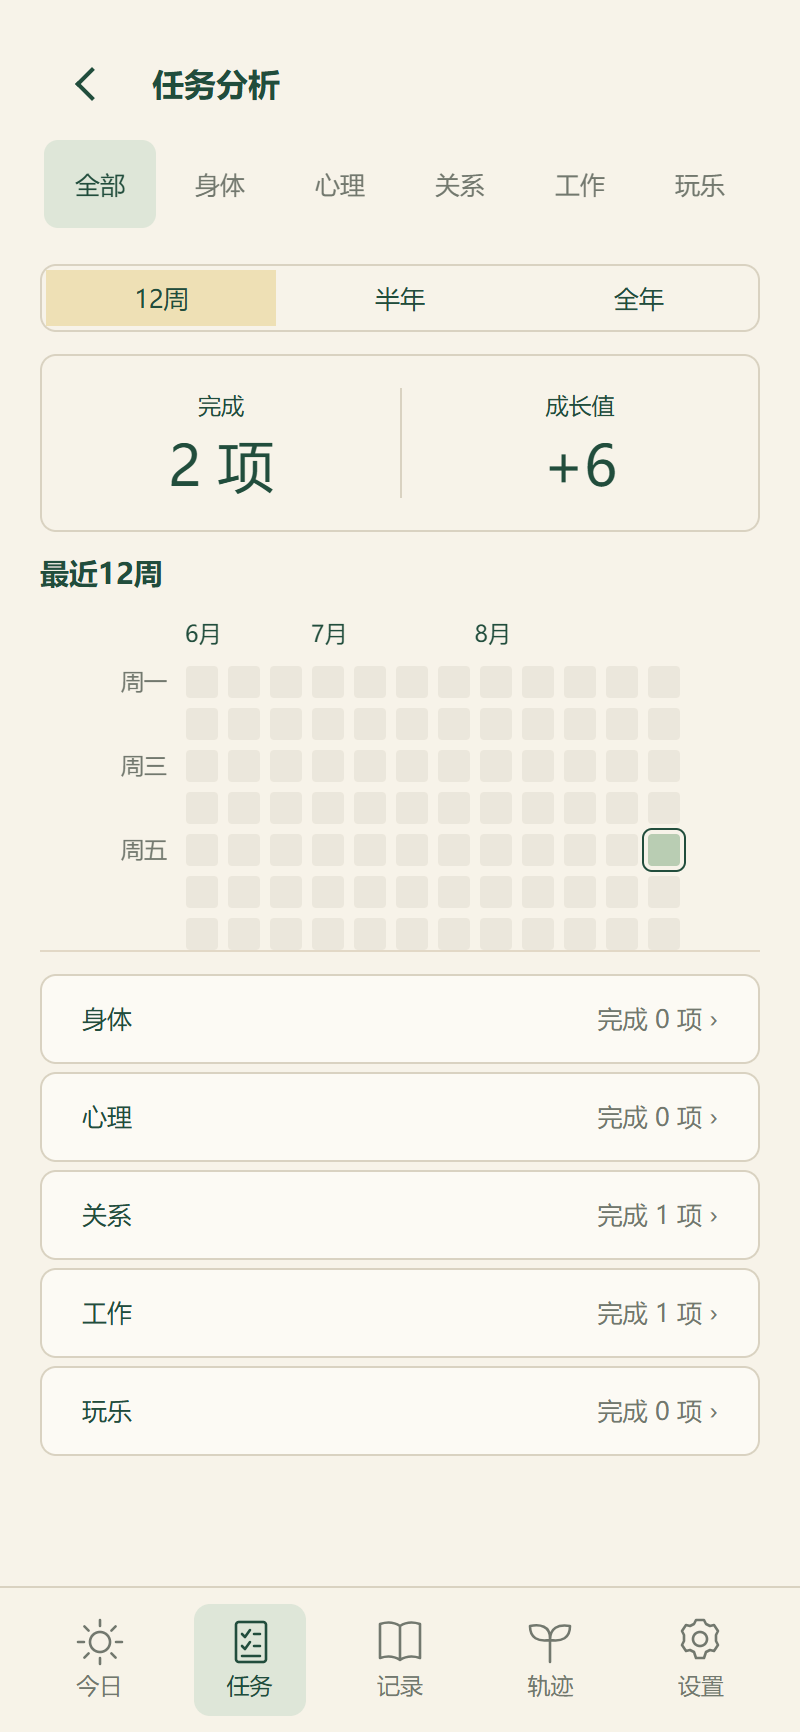
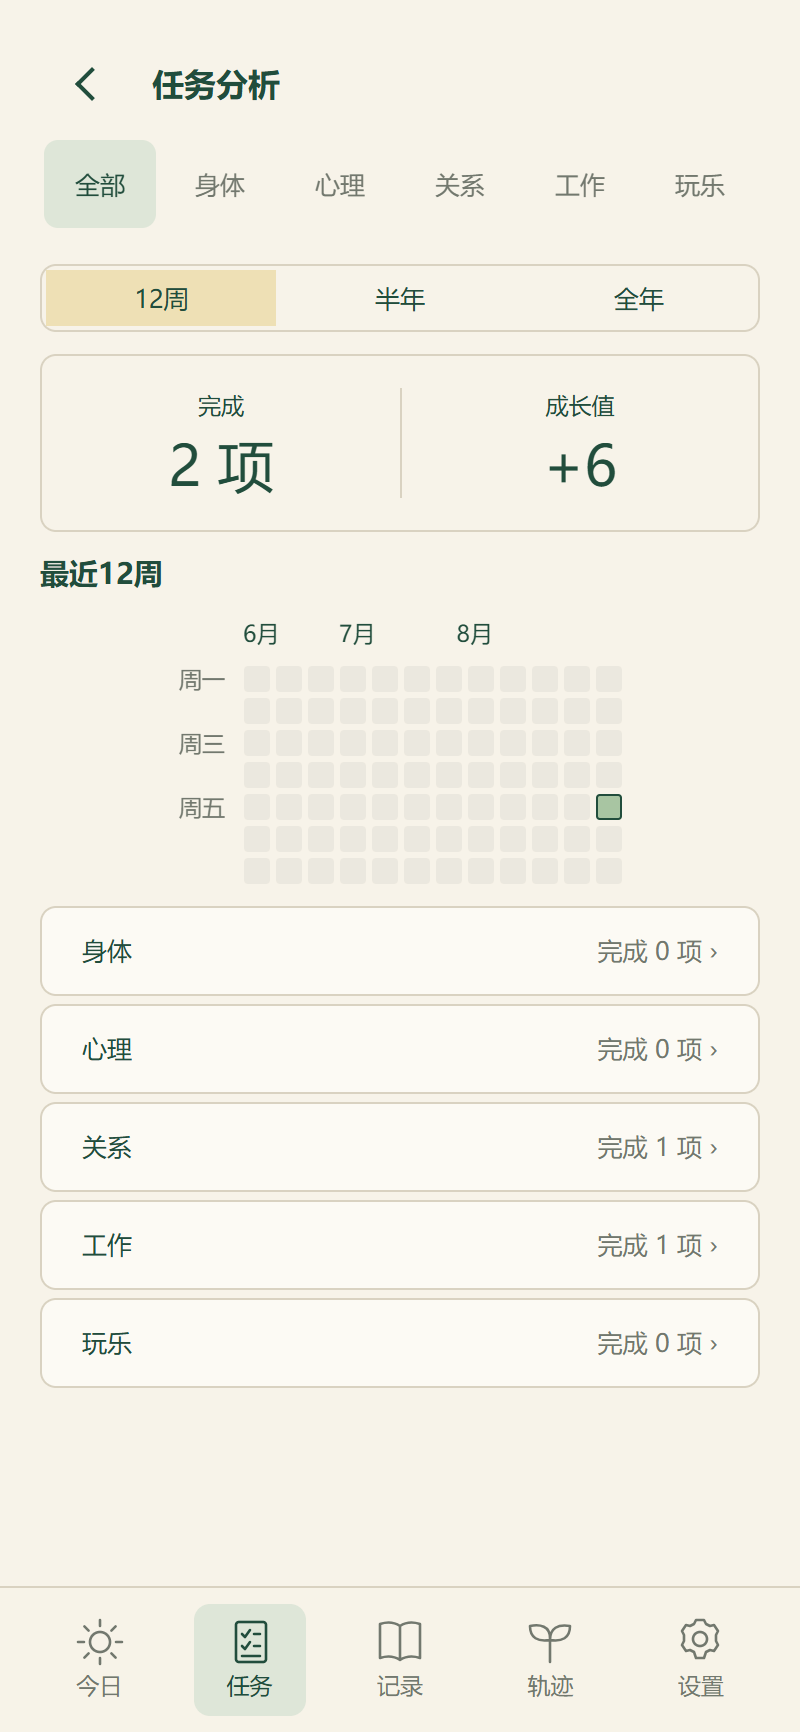
refactor(ui): compact analysis heatmaps

diff --git a/src/design-system.css b/src/design-system.css
@@ -18,12 +18,12 @@
   --ui-color-accent-soft: #dee6d8;
   --ui-color-danger: #a83b32;
   --ui-color-focus: #214d3c;
-  --ui-color-heat-empty: #ebe7dc;
+  --ui-color-heat-empty: #ebe8df;
   --ui-color-heat-missed: #c8c2b3;
-  --ui-color-heat-1: #dce5d8;
-  --ui-color-heat-2: #b9cdb3;
-  --ui-color-heat-3: #89aa83;
-  --ui-color-heat-4: #557d61;
+  --ui-color-heat-1: #cadbc6;
+  --ui-color-heat-2: #a8c5a2;
+  --ui-color-heat-3: #79a574;
+  --ui-color-heat-4: #4b7656;
   --ui-color-heat-5: #214d3c;
 
   /* Type */
@@ -74,8 +74,8 @@
   --ui-action-gap: var(--ui-space-3);
   --ui-repeat-gap: 16px;
   --ui-review-input-height: 116px;
-  --ui-heat-cell: 16px;
-  --ui-heat-gap: 5px;
+  --ui-heat-cell: 13px;
+  --ui-heat-gap: 3px;
   --ui-monthly-trend-height: 14px;
   --ui-analysis-width: 100%;
   --ui-viewport-height: 100vh;
@@ -949,7 +949,7 @@ button.ui-list-row:is(:hover,:focus-visible) { background: var(--ui-color-accent
 
 .analysis-page-body { gap: var(--ui-space-5); min-width: 0; }
 .analysis-category-section { display: grid; gap: var(--ui-list-gap); padding: 0; border: 0; background: transparent; }
-.analysis-heat-section { margin: 0; padding: 0; display: grid; gap: var(--ui-section-gap); }
+.analysis-heat-section { margin: 0; padding: 0; display: grid; gap: var(--ui-section-gap); border-bottom: none; }
 .analysis-heat-scroll { container-type: inline-size; min-width: 0; }
 .analysis-heat-chart {
   --heat-label-width: var(--ui-space-7);
@@ -987,25 +987,9 @@ button.ui-list-row:is(:hover,:focus-visible) { background: var(--ui-color-accent
 }
 .analysis-heat-cell.is-today {
   outline: var(--ui-border-width) solid var(--ui-color-text);
-  outline-offset: var(--ui-space-1);
+  outline-offset: calc(-1 * var(--ui-border-width));
 }
 .analysis-heat-cell::after { content: none; }
-.page-habit-analysis:not(.page-habit-analysis-overview) .analysis-heat-cell:is(.is-level-1, .is-level-2, .is-level-3, .is-level-4, .is-level-5)::after,
-.page-habit-analysis:not(.page-habit-analysis-overview) .analysis-heat-cell.is-missed::after {
-  position: absolute;
-  inset: 0;
-  display: grid;
-  place-items: center;
-  font-size: var(--ui-font-meta);
-}
-.page-habit-analysis:not(.page-habit-analysis-overview) .analysis-heat-cell:is(.is-level-1, .is-level-2, .is-level-3, .is-level-4, .is-level-5)::after {
-  color: var(--ui-color-surface);
-  content: '✓';
-}
-.page-habit-analysis:not(.page-habit-analysis-overview) .analysis-heat-cell.is-missed::after {
-  color: var(--ui-color-muted);
-  content: '–';
-}
 
 /* Companion settings mirror the reference: preview, choices, nickname, save. */
 .settings-detail-dialog .profile-settings.settings-detail-content {

diff --git a/docs/UI_COMPONENTS.md b/docs/UI_COMPONENTS.md
@@ -69,7 +69,7 @@
 
 页面标题到内容、组件标题到内容、同级分组、字段标签到控件、字段之间、行内内容、操作按钮之间，分别由对应容器负责。不得叠加子项 margin，也不得互借令牌。
 行内内容11px，计数到操作2px，操作列55px；普通独立行间4px不作用于组内细分隔线。
-复盘输入最低116px，重复标题到星期16px，热力图16px方格/5px间隔，分析列表默认100%内容宽度。热力图统一使用暖灰底格与同一深绿浓度阶梯：任务分析仅以浓度表达每日数量；单习惯分析以小勾表示完成、描边短横表示漏打、底格表示未计划；不显示颜色图例。今天使用与格子留有间隙的独立外框，不覆盖原状态。400px仅为审查视口。
+复盘输入最低116px，重复标题到星期16px，热力图13px方格/3px间隔，分析列表默认100%内容宽度。热力图以紧凑的横向时间纹理呈现：暖灰低对比底格退后，同一深绿浓度阶梯突出完成数据，格内不放勾、短横或其他符号；单习惯漏打只使用轻描边区分。页面不显示颜色图例，区块底部不使用分割线。今天使用细内框，不改变方格尺寸。400px仅为审查视口。
 
 ## 人工调节：一个入口，同一套参数
 

diff --git a/TODO.md b/TODO.md
@@ -7,7 +7,7 @@
 ### 2026-09-07：热力图视觉重设计（已完成）
 
 - [x] 任务与单习惯分析合并为同一套暖灰底格、深绿浓度和正方形几何；删除旧黄绿混用，保持无颜色图例。
-- [x] 任务分析只用浓度表达每日完成数量；单习惯以克制的小勾、短横和底格区分完成、漏打、未计划；今天使用不覆盖状态的独立外框。
+- [x] 参考横向贡献图的密度重新收口：13px方格、3px间距、低对比底格和单一深绿浓度；格内不放勾或短横，单习惯漏打仅用轻描边，今天使用不改变尺寸的细内框。
 - [x] 严格尺寸审计、完整 `npm test` 和 47/47 浏览器业务回归通过；55场景重拍文字审计为0，任务与习惯分析截图见 `design/screenshots/20260907-heatmap-redesign/`，第二轮独立视觉复审PASS。
 
 ### 2026-09-07：组件合并最终审查（已完成）
